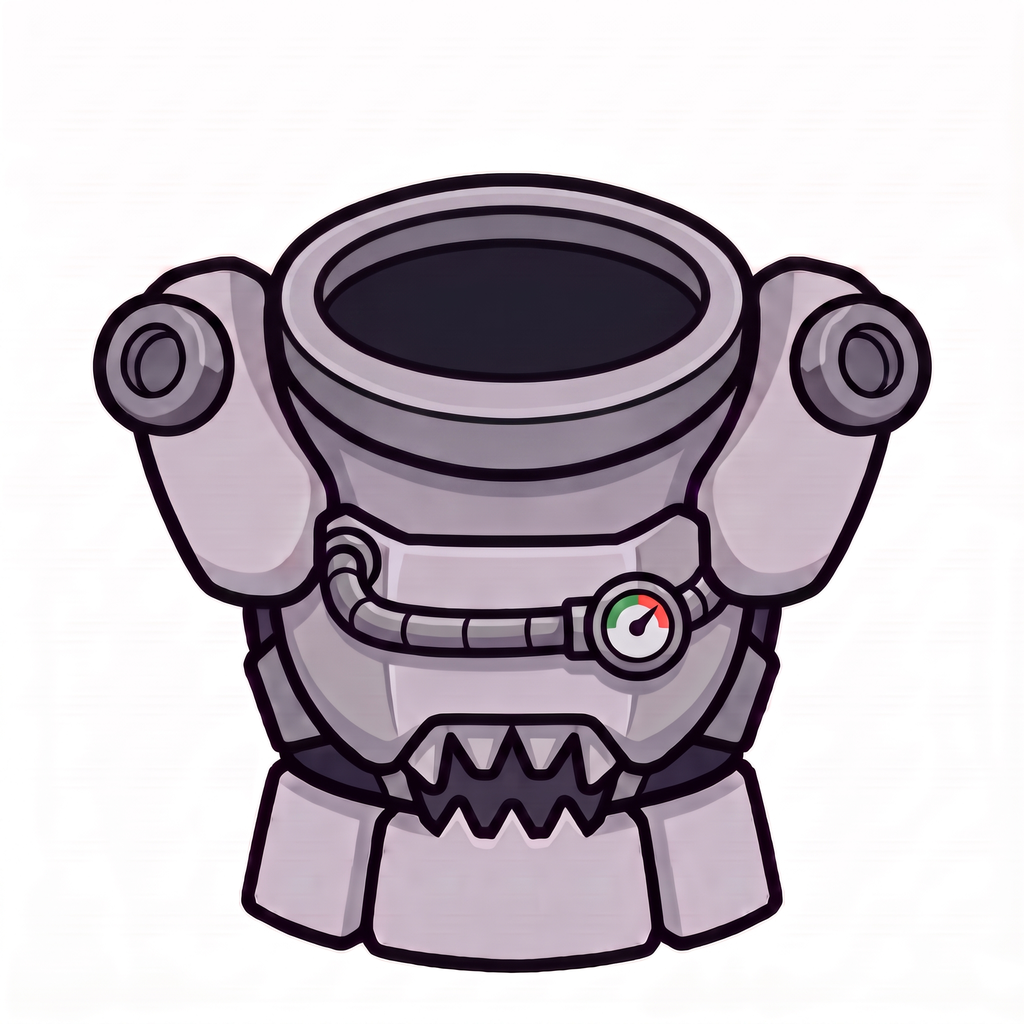
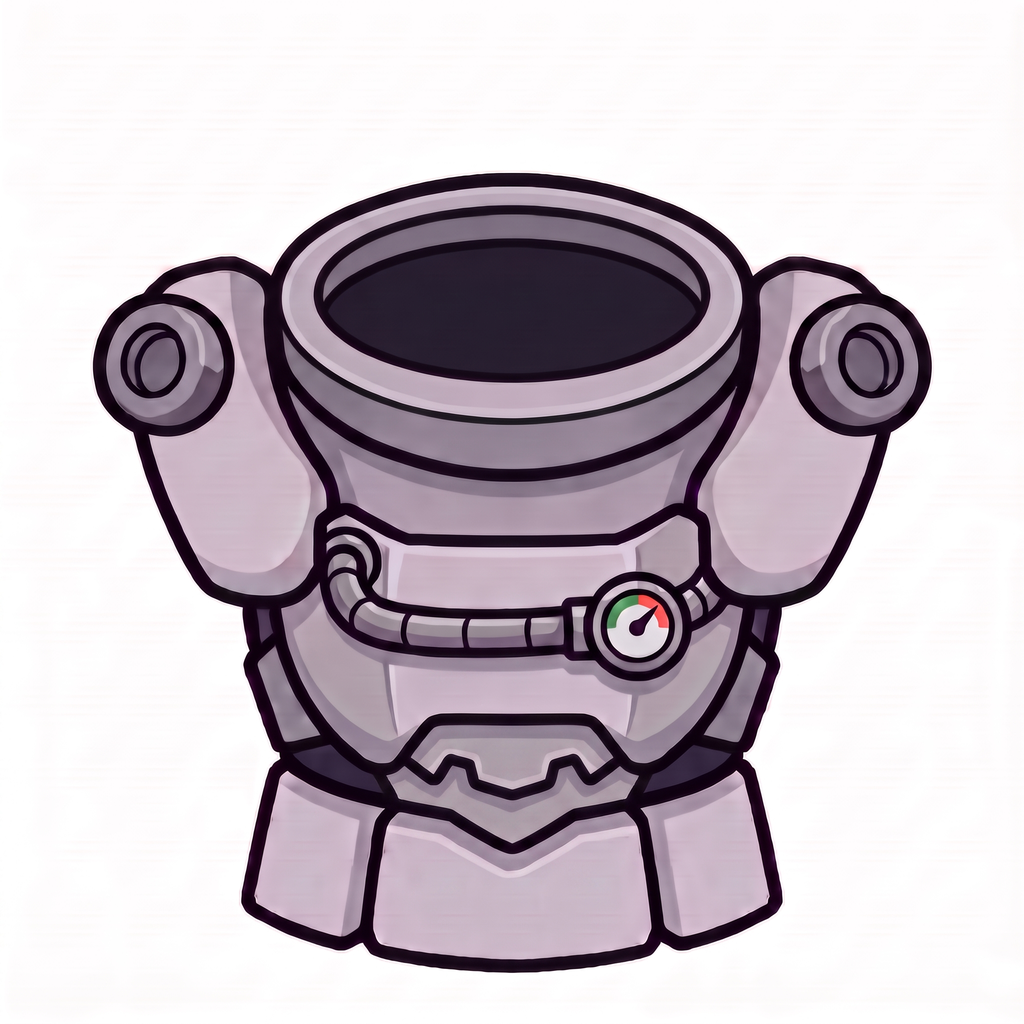
Bughunter picks: lamps-on-top helmet, chevron chassis; net launcher holds 3, reloads from textiles
Claude-Session: https://claude.ai/code/session_01GM4XsNt8FF8EEgy8oUJDKj

Changed region(s): [[0.375, 0.7188, 0.625, 0.875]]

diff --git a/docs/DESIGN.md b/docs/DESIGN.md
@@ -37,8 +37,11 @@ Decisions agreed with the owner, to build from. Numbers are starting points for 
     arm, each with its own cooldown.
 - **Net launcher** (chassis ability): a targeted button that fires a net over an area; insects
   caught in it are pinned (or heavily slowed) for a few seconds - other creatures are only
-  slowed briefly. Sets up the hammer and flamer.
-- Helmet: lamps instead of horns; no side fire port. Chassis: only a subtle hint of teeth.
+  slowed briefly. Sets up the hammer and flamer. Holds **3 nets max**; does not use suit
+  power. The pilot reloads it from **cloth or other common textiles** (any fabric: cloth,
+  hemp, synthread, devilstrand...; around 20 per net), like vanilla reloadable gear.
+- Helmet: twin lamps on top (no horns, no side fire port). Chassis: a faint chevron along
+  the lower chest edge - the only hint of teeth.
 - Drawbacks: **slow** (large move-speed penalty) and **power hungry** (high drain).
 - Compensation: holds **two power cells** instead of one.
 
